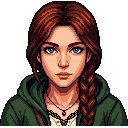
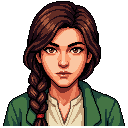
art: ミラに足を描く。裾が床まで届く服をやめた
1稿は膝下まである長衣で、足が一度も描かれていなかった。裾がまっすぐ
切れて終わるので、実寸だと足首から下を切断されたように見えていた。

前が開いた膝丈の上着に変え、下にスラックスと革のブーツを出した。
両脚が完全に見える。

途中、単に「短い服」と指定した稿（v4）は背丈まで縮んで幼くなり、
気に入ってもらえた優雅さが消えた。プロンプトに
TALL AND SLENDER with long legs を併記して体型を止めてある。

服が変わったので立ち絵も起こし直した。バストの寄りは司書長たちと同じまま。

アートバイブルに「裾が床まで届く服を着せない」を追記。
robe / gown と書いたら必ず足を確認すること。司書長・兵士・主人公は
最初から靴が描かれていて、長衣を着せたキャラだけで起きる。

diff --git a/src/core/assets.ts b/src/core/assets.ts
@@ -47,8 +47,10 @@ export const MANIFEST: Record<string, string> = {
   "prop.rubble": "/assets/props2/rubble.png",
 
   // NPC。画面内を歩かないので待機の4方向だけ。キーの頭は .room の !npc の ref と揃える
-  // ミラ v3。立ち絵と同じ人物から起こしてある（顔と服が食い違わない）
-  ...facing("mira", "/assets/sprites/mira3"),
+  // ミラ v5。立ち絵と同じ人物から起こしてある（顔と服が食い違わない）。
+  // **裾が床まである服は避ける。** v3 は膝下まである長衣で、
+  // 足が描かれないまま裾が切れ、足首から下を切断されたように見えていた
+  ...facing("mira", "/assets/sprites/mira_v5"),
   ...facing("librarian", "/assets/sprites/librarian"),
   ...facing("halven", "/assets/sprites/halven"),
   // 会話する相手のうち、以前は色付きの矩形で代用していたもの

diff --git a/docs/アートバイブル.md b/docs/アートバイブル.md
@@ -86,6 +86,21 @@ npm run fit -- public/assets/sprites/<name>
 **方向ごとではなく、フォルダ内の全PNGをまとめて**範囲を取ってから切り出す。
 向きごとに切り出すと、東を向いた瞬間に数ピクセル飛ぶ。
 
+### 裾が床まで届く服を着せない
+
+ミラの1稿は膝下まである長衣で、**足が一度も描かれなかった。**
+裾がまっすぐ切れて終わるので、実寸で見ると足首から下を切断されたように見える。
+プレイして最初に出た指摘がこれだった。
+
+- 服は**膝丈まで**にするか、**前が開いた上着**にして脚を見せる
+- プロンプトに `both feet clearly visible`、`brown leather boots`、
+  `the coat hangs open so both legs are visible` を必ず入れる
+- 「短い服」とだけ書くと背丈まで縮んで幼くなる。
+  **`TALL AND SLENDER with long legs` を併記して体型を止める**
+
+司書長・兵士・主人公は最初から靴が描かれていた。
+長衣を着せたキャラだけ起きるので、robe / gown と書いたら必ず足を確認する。
+
 ### 生成に向かないもの：階段
 
 「下へ降りる階段」は3回投げて3回とも失敗した
